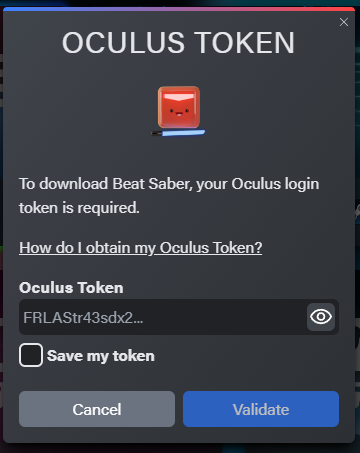
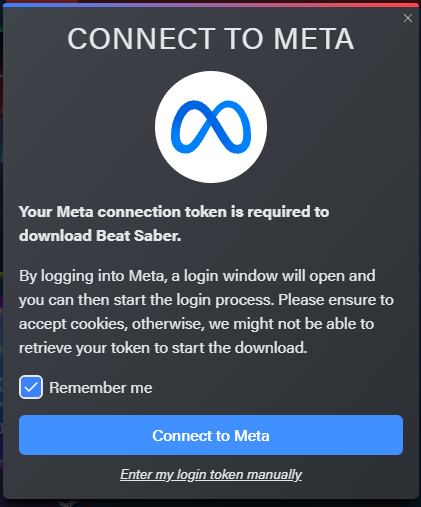
Update Install or import a version for 1.5

diff --git a/docs/wiki/Guides/Installation-and-updates/Install-or-import-a-version/Install-or-import-a-version.md b/docs/wiki/Guides/Installation-and-updates/Install-or-import-a-version/Install-or-import-a-version.md
@@ -10,7 +10,10 @@
 
 ## Install a Version with Steam
 
-1. Download and install [BSManager](https://www.bsmanager.io) from [GitHub](https://github.com/Zagrios/bs-manager/releases/latest), [Nexus Mods](https://www.nexusmods.com/beatsaber/mods/18?tab=files), or the [official website](https://www.bsmanager.io).
+1. Download and install [BSManager](https://www.bsmanager.io) from one of the following sources:  
+   - [GitHub](https://github.com/Zagrios/bs-manager/releases/latest)  
+   - [Nexus Mods](https://www.nexusmods.com/beatsaber/mods/18?tab=files)  
+   - [Official Website](https://www.bsmanager.io)  
 2. Open the __`Add Versions`__ interface and select the version you wish to download.
 3. Choose __`Steam`__ as your platform.
 4. Enter your Steam credentials (ID and password) or scan the QR code using the Steam app on your phone.
@@ -28,15 +31,30 @@
 > - Ensure that Beat Saber is in your __Oculus PCVR__ library to enable downgrading.
 > - You must run Beat Saber at least once on your computer before attempting to launch retrograde Oculus versions from [BSManager](https://www.bsmanager.io).
 
-1. Download and install [BSManager](https://www.bsmanager.io) from [GitHub](https://github.com/Zagrios/bs-manager/releases/latest), [Nexus Mods](https://www.nexusmods.com/beatsaber/mods/18?tab=files), or the [official website](https://www.bsmanager.io).
+1. Download and install [BSManager](https://www.bsmanager.io) from one of the following sources:  
+   - [GitHub](https://github.com/Zagrios/bs-manager/releases/latest)  
+   - [Nexus Mods](https://www.nexusmods.com/beatsaber/mods/18?tab=files)  
+   - [Official Website](https://www.bsmanager.io)  
+
 2. Open the __`Add Versions`__ interface and select the version you wish to download.
 3. Choose __`Oculus Store`__ as your platform.
-4. Follow [this guide](How-to-obtain-your-Oculus-Token) to obtain your Oculus token.
-5. Once logged into Oculus, the download will start automatically. Please wait for it to complete.
-6. When the download is finished, select the downloaded version and click the __`Launch`__ button to verify that the game launches correctly.
+4. Click on __`Connect to Meta`__ or __`Enter my login token manually`__ based on your preferred login method.
+
+### If you selected __`Connect to Meta`__
+
+1. You will be redirected to the Oculus website. Enter your email and follow the instructions to log in.  
+2. Once logged in, the download will start automatically. Please wait for it to complete.  
+3. When the download finishes, select the downloaded version and click the __`Launch`__ button to verify that the game launches correctly.
+
+### If you selected __`Enter my login token manually`__
+
+1. Follow [this guide](How-to-obtain-your-Oculus-Token) to obtain your Oculus token.  
+2. Once the token is entered and validated, the download will start automatically. Please wait for it to complete.  
+3. When the download finishes, select the downloaded version and click the __`Launch`__ button to verify that the game launches correctly.
 
 <div align="center">
     <img src="../wiki/Guides/Installation-and-updates/Install-or-import-a-version/OculusLogin.png" alt="OculusLogin.png" />
+    <img src="../wiki/Guides/Installation-and-updates/Install-or-import-a-version/OculusLogin.png" alt="OculusLoginToken.png" />
 </div>
 
 ## How to Import a Version
